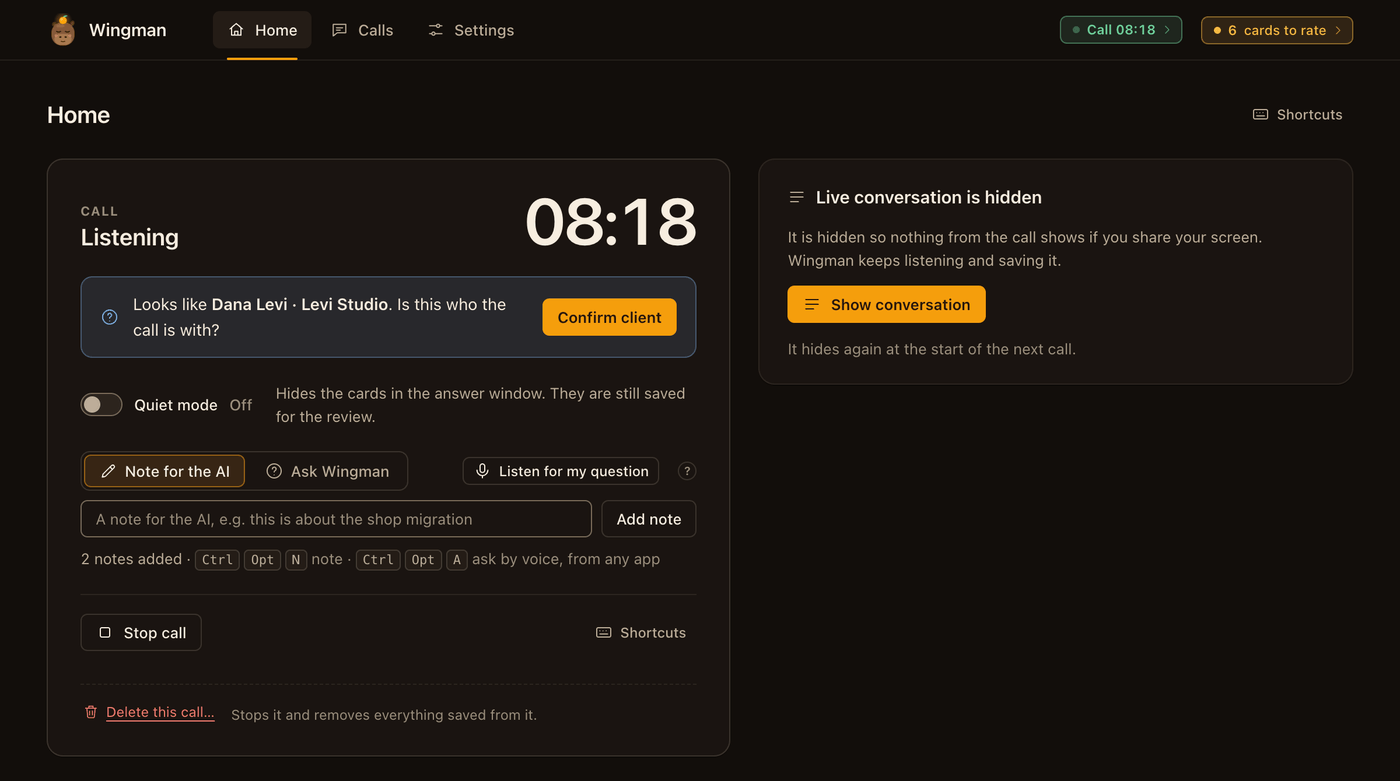
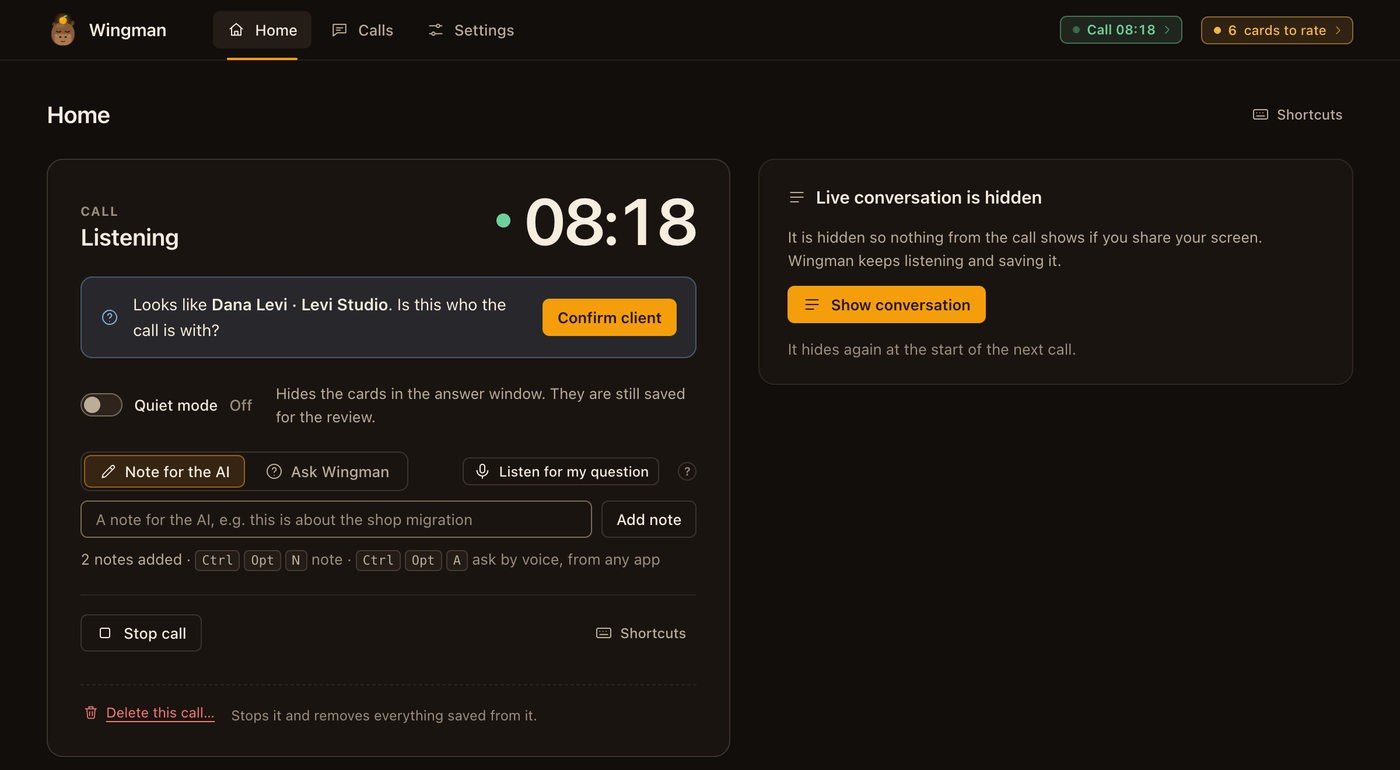
Docs: retake screenshots and tour legends for the status dot and the new setup

diff --git a/docs/USER-GUIDE.md b/docs/USER-GUIDE.md
@@ -36,7 +36,7 @@ This is the window you read during a call. Put it on the second screen.
 
 <img src="ux/answer-window-en-ui.png" alt="The answer window with a transcript line, an AI card, a buy-time line, captured details, a checklist, a client card and AI notes" width="520">
 
-1. **Listening** (top): Wingman hears the call. It says **Paused** when you pause it.
+1. **Listening** (top): Wingman hears the call. It says **Paused** when you pause it. Next to it are two small dots: the first shows the call state, the last one is the health dot. Green means everything works, amber means something is degraded (for example a weak microphone), red means something is not working. Hover over it to read the reason.
 2. **Other side**: the last thing the other person said.
 3. **AI · unverified** (dashed border): an answer written by the AI. Check it before you say it. A line starting "Answering:" shows which question it answers.
 4. **Prepared** (green, not shown here): an answer from your own answer pack. You wrote it, so you can trust it more.
@@ -49,7 +49,7 @@ This is the window you read during a call. Put it on the second screen.
 
 <img src="ux/home-window.png" alt="The Home view of the main window during a call, with the timer, a client suggestion, quiet mode and a note box" width="640">
 
-1. **Timer and state**: how long the call has run, and whether Wingman is listening.
+1. **Timer and state**: how long the call has run, and whether Wingman is listening. The dot next to the timer is green while it listens, and amber or red if something needs attention.
 2. **Looks like ... Confirm client**: Wingman guesses who the call is with. Press **Confirm client** if it is right. The AI then gets that client's details.
 3. **Quiet mode**: hides the cards in the answer window. They are still saved for the review.
 4. **Note for the AI** and **Ask Wingman**: type a short note, or ask a question. **Listen for my question** lets you ask by voice.
@@ -76,11 +76,11 @@ This is the window you read during a call. Put it on the second screen.
 
 ### Setup guide
 
-<img src="ux/setup-step.png" alt="The setup guide on the Home page with the Answer pack step open" width="520">
+<img src="ux/setup-step.png" alt="The setup guide on the Home page with the first step open: a free practice call, then the two key fields" width="520">
 
-1. **Set up Wingman** shows how many of the 9 steps are done. The first step offers a free practice call (no keys); the second asks for your keys and the next, "Your privacy", for two privacy choices.
+1. **Set up Wingman** shows how many of the 9 steps are done. The first step, **Add your keys**, starts with **Try a practice call first (free, no keys)**. A pretend caller talks to Wingman on your Mac, so you can see the windows before you pay for anything.
 2. **Open** shows the details of a step. **Close** hides them again.
-3. Each step explains what it is for. Here, the **Answer pack** step lets you copy the example pack to your own folder, or keep the example for now.
+3. Below the practice call are the two key fields (Deepgram and Anthropic). Paste a key, press **Save**, then test it. The next steps cover "Your privacy" (two choices about listening and your audio), permissions, microphone, screens, your answer pack, a readiness check and a practice call.
 4. **Skip this step** is always allowed. You can come back from **Settings, Setup guide**.
 
 ## Update and uninstall

diff --git a/README.md b/README.md
@@ -49,7 +49,7 @@ Also:
 
 | Answer window | Main window |
 |---|---|
-| <img src="docs/ux/answer-window-hero.png" alt="The answer window with an AI card, a buy-time line and a prepared card" width="480"> | <img src="docs/ux/home-window.png" alt="The Home view of the main window during a live call" width="480"> |
+| <img src="docs/ux/answer-window-hero.png" alt="The answer window with an AI card, a buy-time line and a prepared card, and the green status dot in the header" width="480"> | <img src="docs/ux/home-window.png" alt="The Home view of the main window during a live call" width="480"> |
 
 | English labels | Hebrew card (right-to-left by itself) |
 |---|---|
